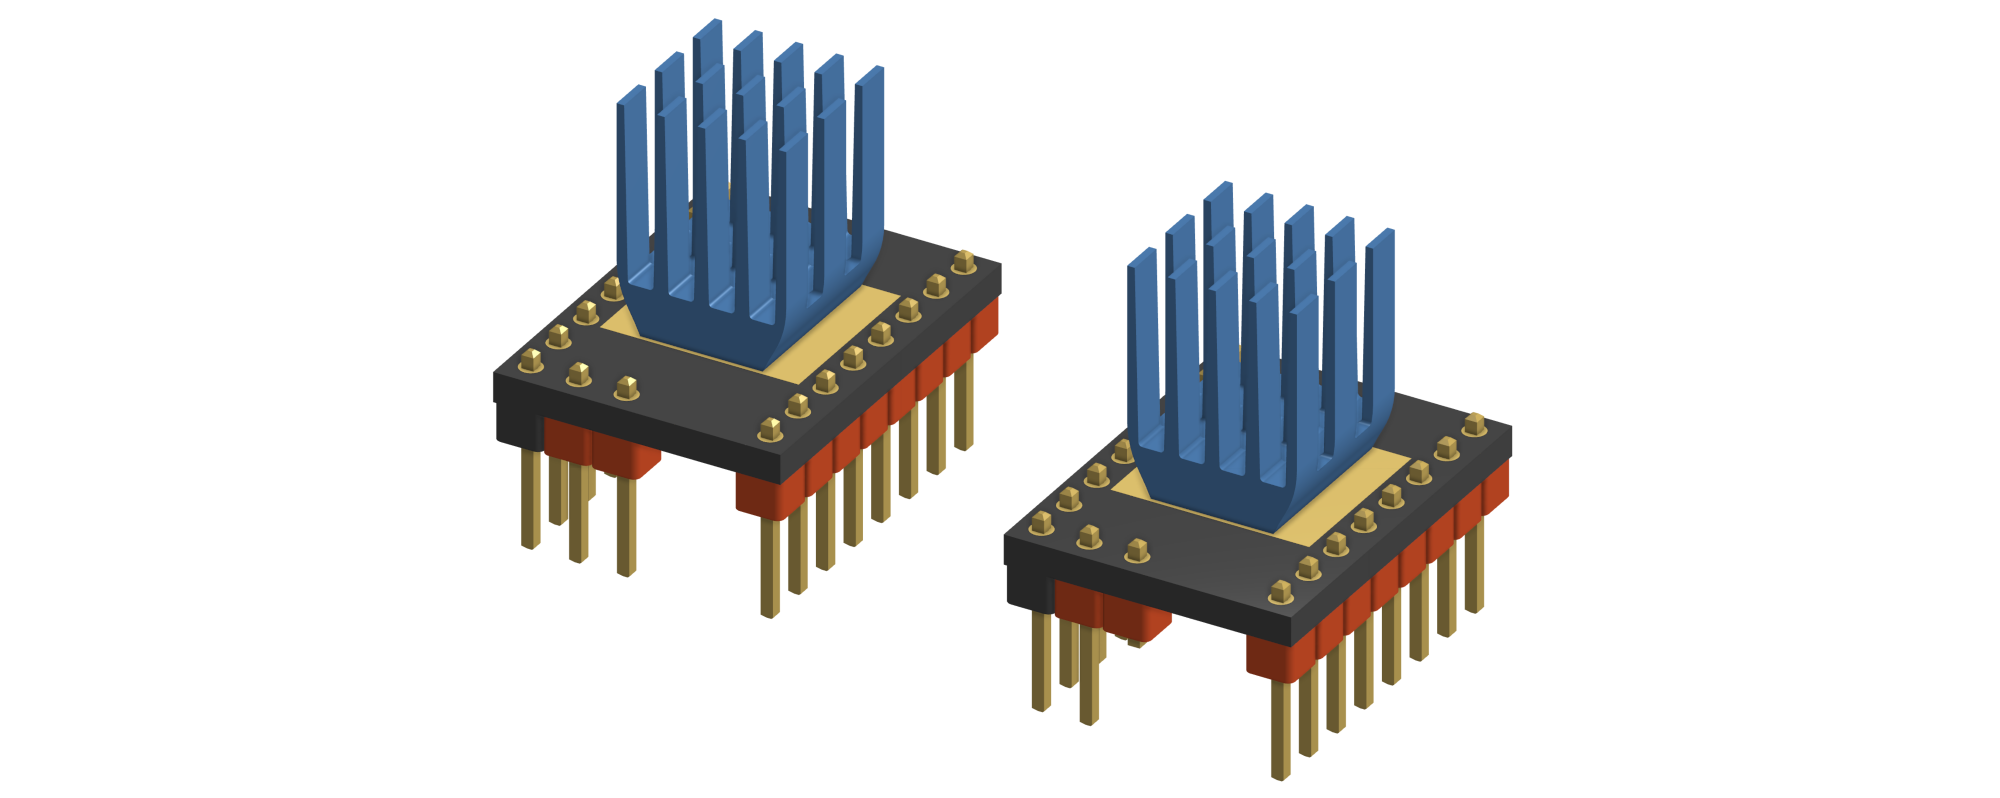
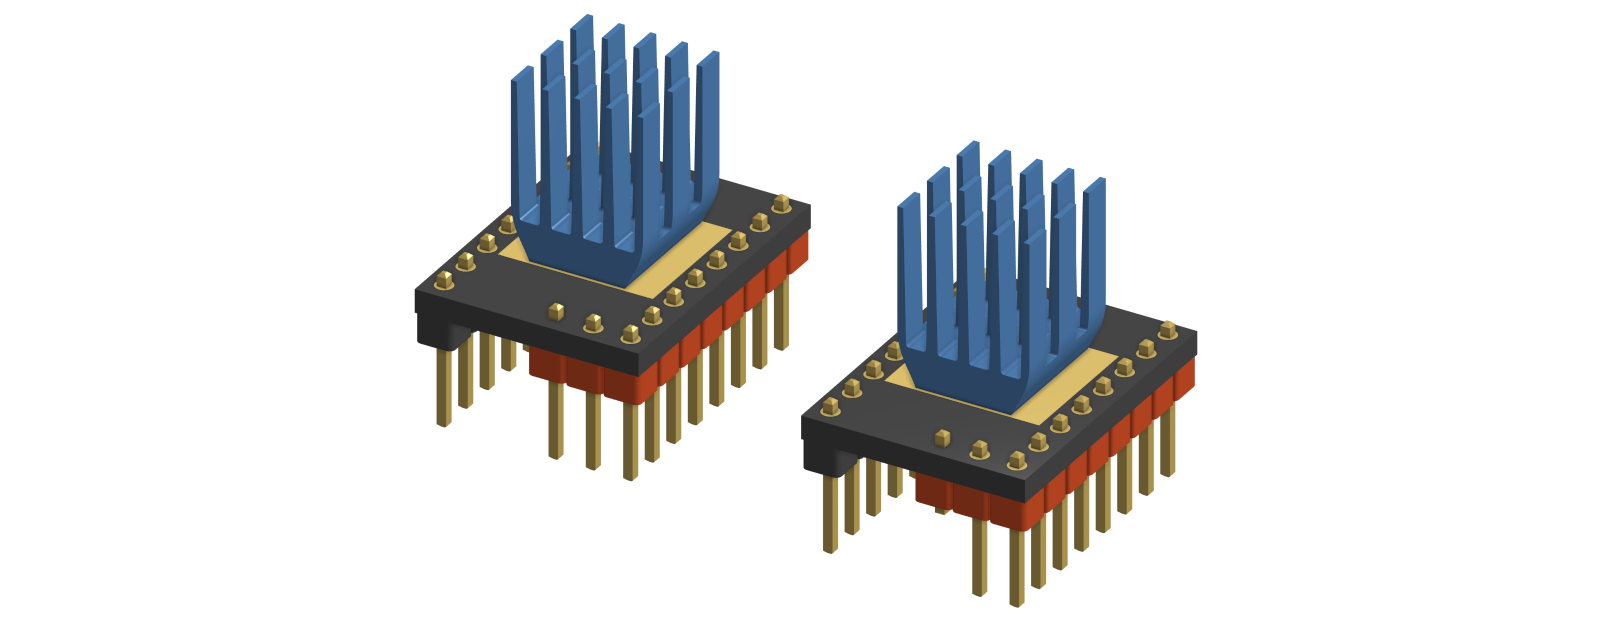
Fix mirrored SKR Pro stepper driver pins

Changed region(s): [[0.2188, 0.0306, 0.5312, 0.7955], [0.5, 0.2142, 0.7812, 0.9791]]

diff --git a/docs/src/electronics.md b/docs/src/electronics.md
@@ -56,7 +56,7 @@ V-Core 3 runs on 6 drives which means a board able to handle 6 or more drives is
     with 2 of the Z steppers.
 
     ![](../assets/SKR Pro V1.2 Stepper Pins.png)
-    ![](../assets/SKR Pro V1.2 Stepper Pins Cut.png)
+    ![](../assets/SKR Pro V1.2 Stepper Pins Alternate.png)
 
 ??? question "Zoom to jumpers"
 
